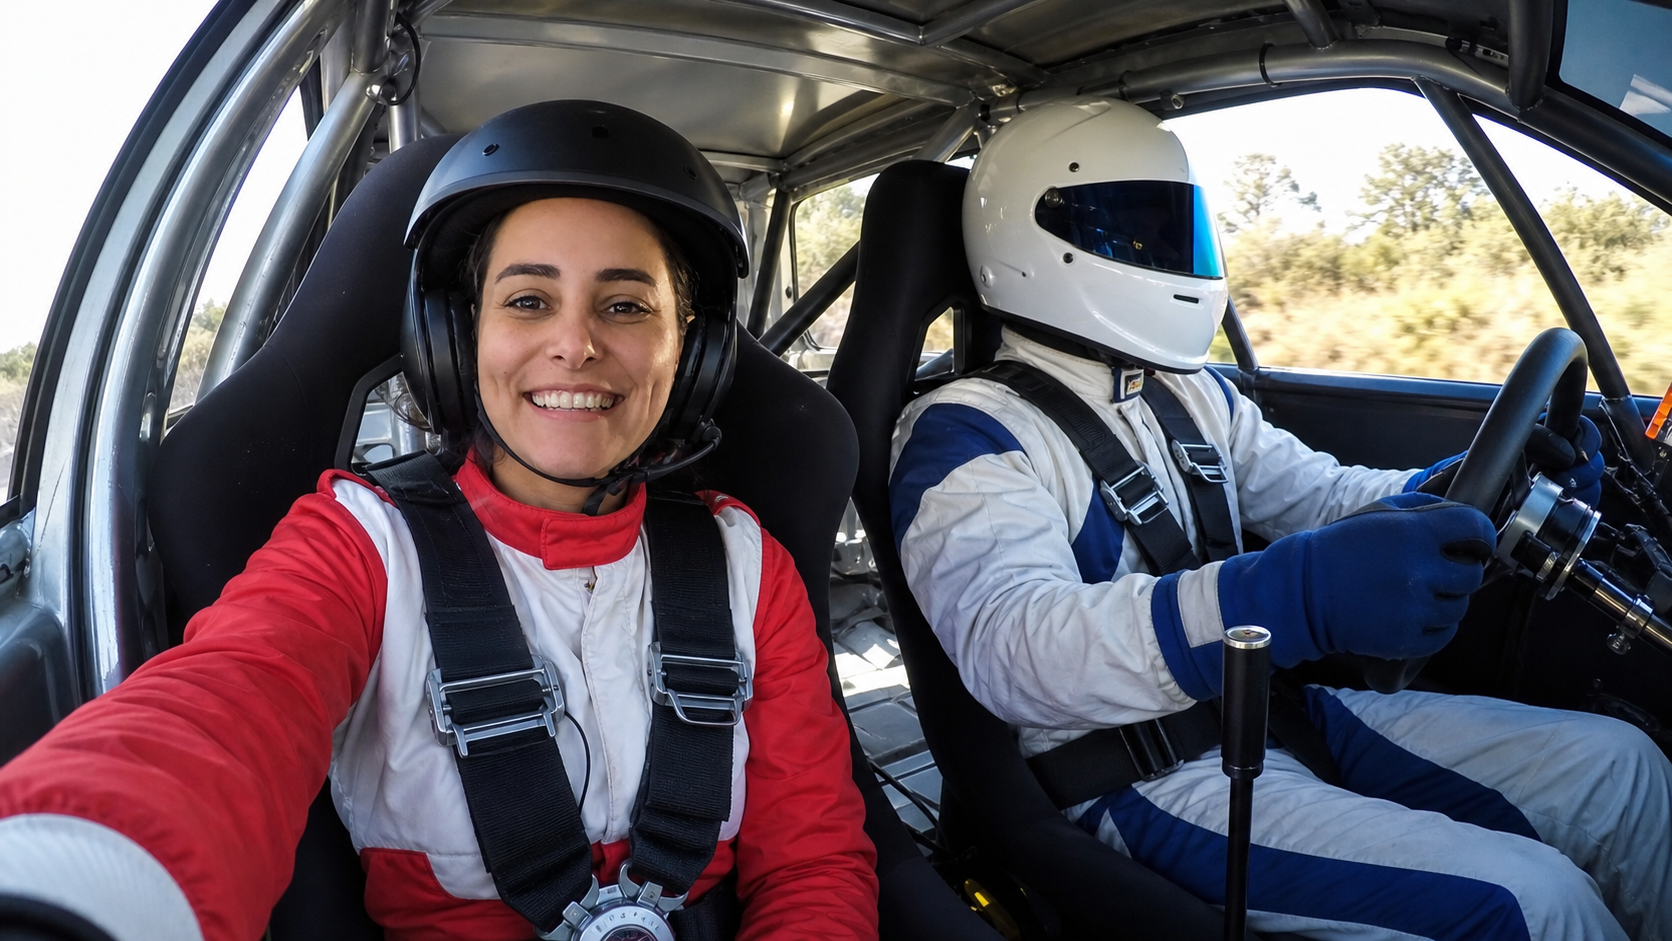
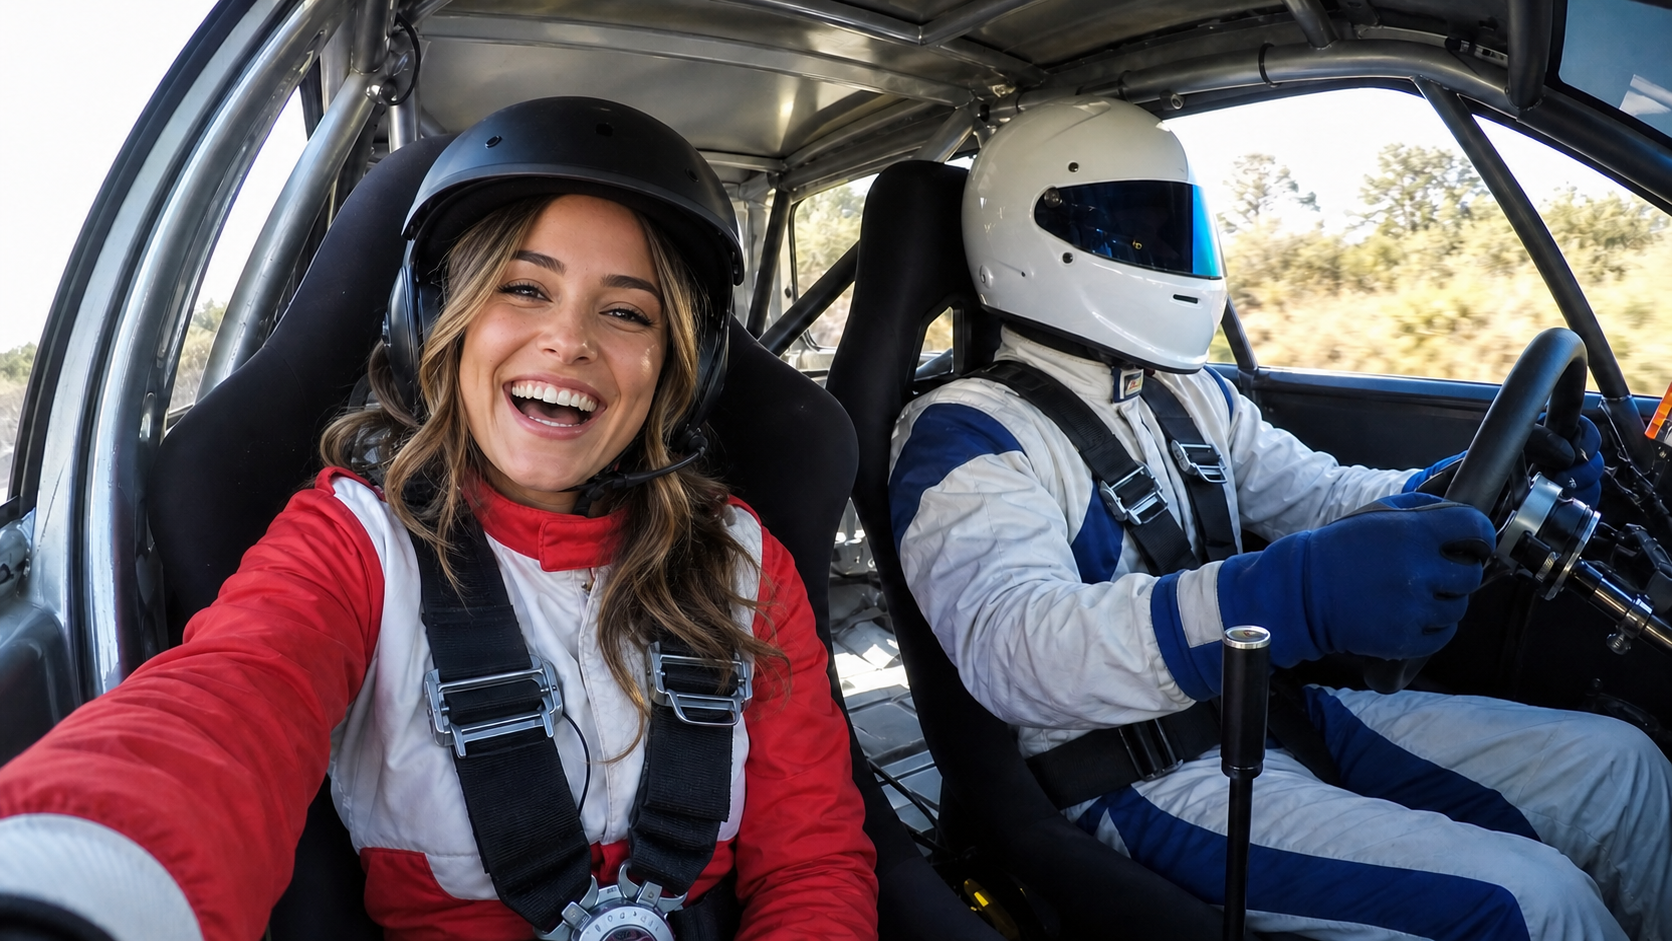
..

diff --git a/src/screens/HomeScreen.tsx b/src/screens/HomeScreen.tsx
@@ -189,15 +189,16 @@ const styles = StyleSheet.create({
     alignItems: 'center',
     justifyContent: 'center',
     paddingHorizontal: 18,
+    paddingVertical: 0,
     borderRadius: 18,
     backgroundColor: 'rgba(255,255,255,0.92)',
     borderWidth: 1,
     borderColor: 'rgba(255,255,255,0.65)',
   },
-  governmentLogo: { width: 148, height: 30 },
-  itaipuLogoFrame: { width: 76, height: 44, overflow: 'hidden', alignItems: 'center' },
-  itaipuLogo: { width: 130, height: 54 },
-  yasyretaLogo: { width: 83, height: 54 },
+  governmentLogo: { width: 148, height: 34 },
+  itaipuLogoFrame: { width: 76, height: 60, overflow: 'hidden', alignItems: 'center' },
+  itaipuLogo: { width: 130, height: 60 },
+  yasyretaLogo: { width: 83, height: 56 },
   logoDivider: {
     width: 1,
     height: 32,
